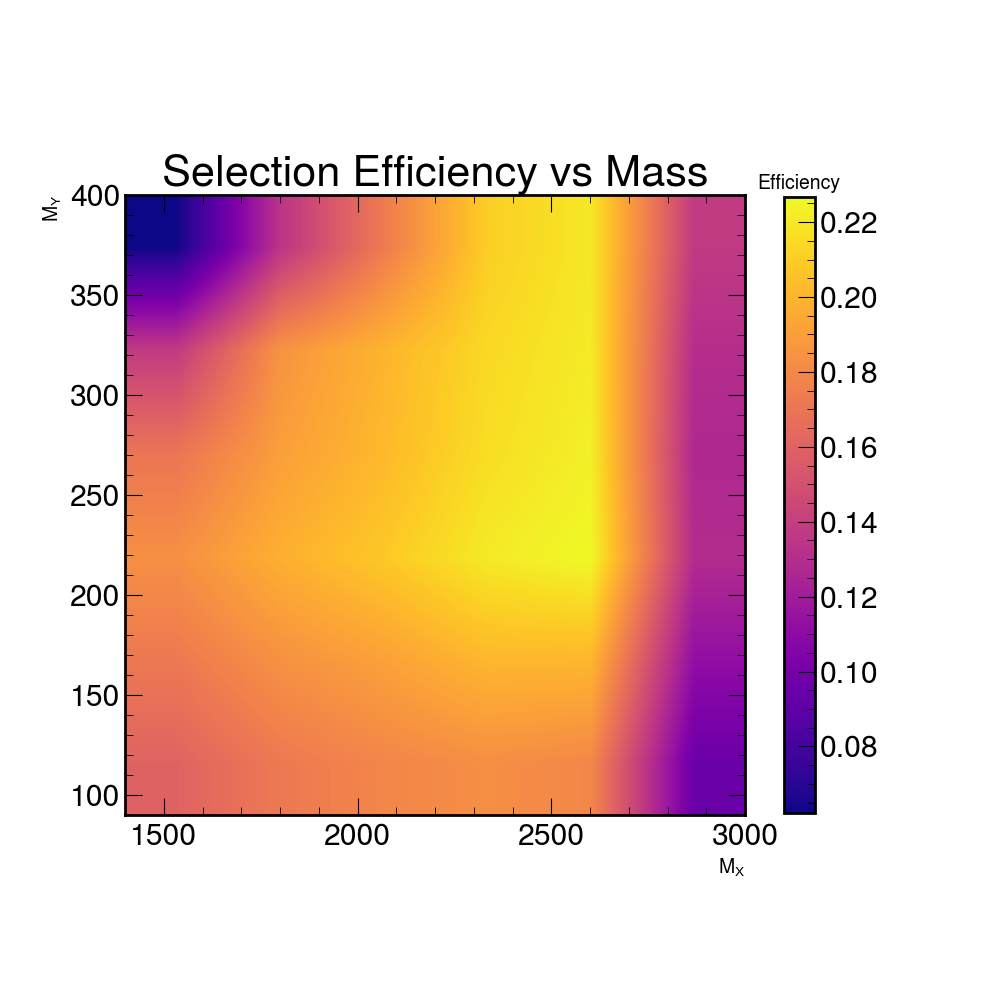
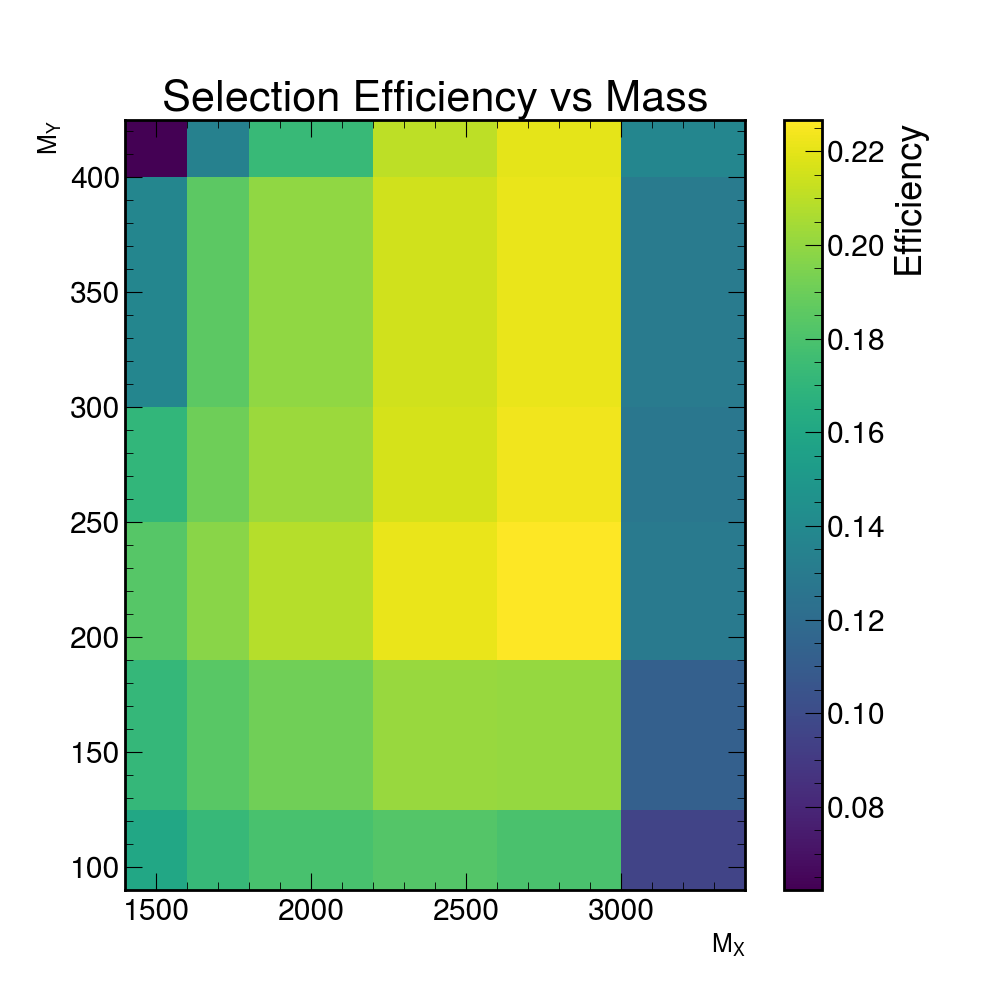
binning values

diff --git a/plotting/PlottingSelectionEff/SelectionEffvsMass.py b/plotting/PlottingSelectionEff/SelectionEffvsMass.py
@@ -38,20 +38,28 @@ def Plot(Efficiencies):
 
     plt.style.use(hep.style.CMS)
 
-    fig, ax = plt.subplots()
+    x_edges=MXs+[3400]
+    y_edges=MYs+[425]
 
-    MX,MY=np.meshgrid(MXs, MYs)
+    plt.pcolormesh(x_edges, y_edges, Efficiencies, shading='auto', cmap='viridis')
+    #plt.grid(True)
 
-    im = ax.imshow(Efficiencies, interpolation='bilinear', origin='lower', cmap=cm.plasma, extent=(MXs[0],MXs[-1],MYs[0],MYs[-1]))
-    ConPlot = ax.contour(MX,MY,Efficiencies,[-5], colors='k', extent=(MXs[0],MXs[-1],MYs[0],MYs[-1]))
+    #fig, ax = plt.subplots()
+
+    #MX,MY=np.meshgrid(MXs, MYs)
+
+    #im = ax.imshow(Efficiencies, interpolation='bilinear', origin='lower', cmap=cm.viridis, extent=(MXs[0],MXs[-1],MYs[0],MYs[-1]))
+    #ConPlot = ax.contour(MX,MY,Efficiencies,[-5],colors='k', extent=(MXs[0],MXs[-1],MYs[0],MYs[-1]))
     
-    CB = fig.colorbar(im, shrink=0.8)
-    CB.ax.set_title(r'Efficiency',fontsize=14)
+    #CB = fig.colorbar(im, shrink=0.8)
+    #CB.ax.set_title(r'Efficiency',fontsize=14)
 
-    ax.set_ylabel(r'$M_{Y}$', fontsize=14)
-    ax.set_xlabel(r'$M_{X}$', fontsize=14)
+    plt.colorbar(label='Efficiency')
 
-    ax.set_aspect((MXs[-1]-MXs[0])/(MYs[-1]-MYs[0]))
+    plt.ylabel(r'$M_{Y}$', fontsize=18)
+    plt.xlabel(r'$M_{X}$', fontsize=18)
+
+    #plt.aspect((MXs[-1]-MXs[0])/(MYs[-1]-MYs[0]))
 
     plt.title("Selection Efficiency vs Mass")
     plt.savefig('Selection_Efficiency_vs_Mass.png')
